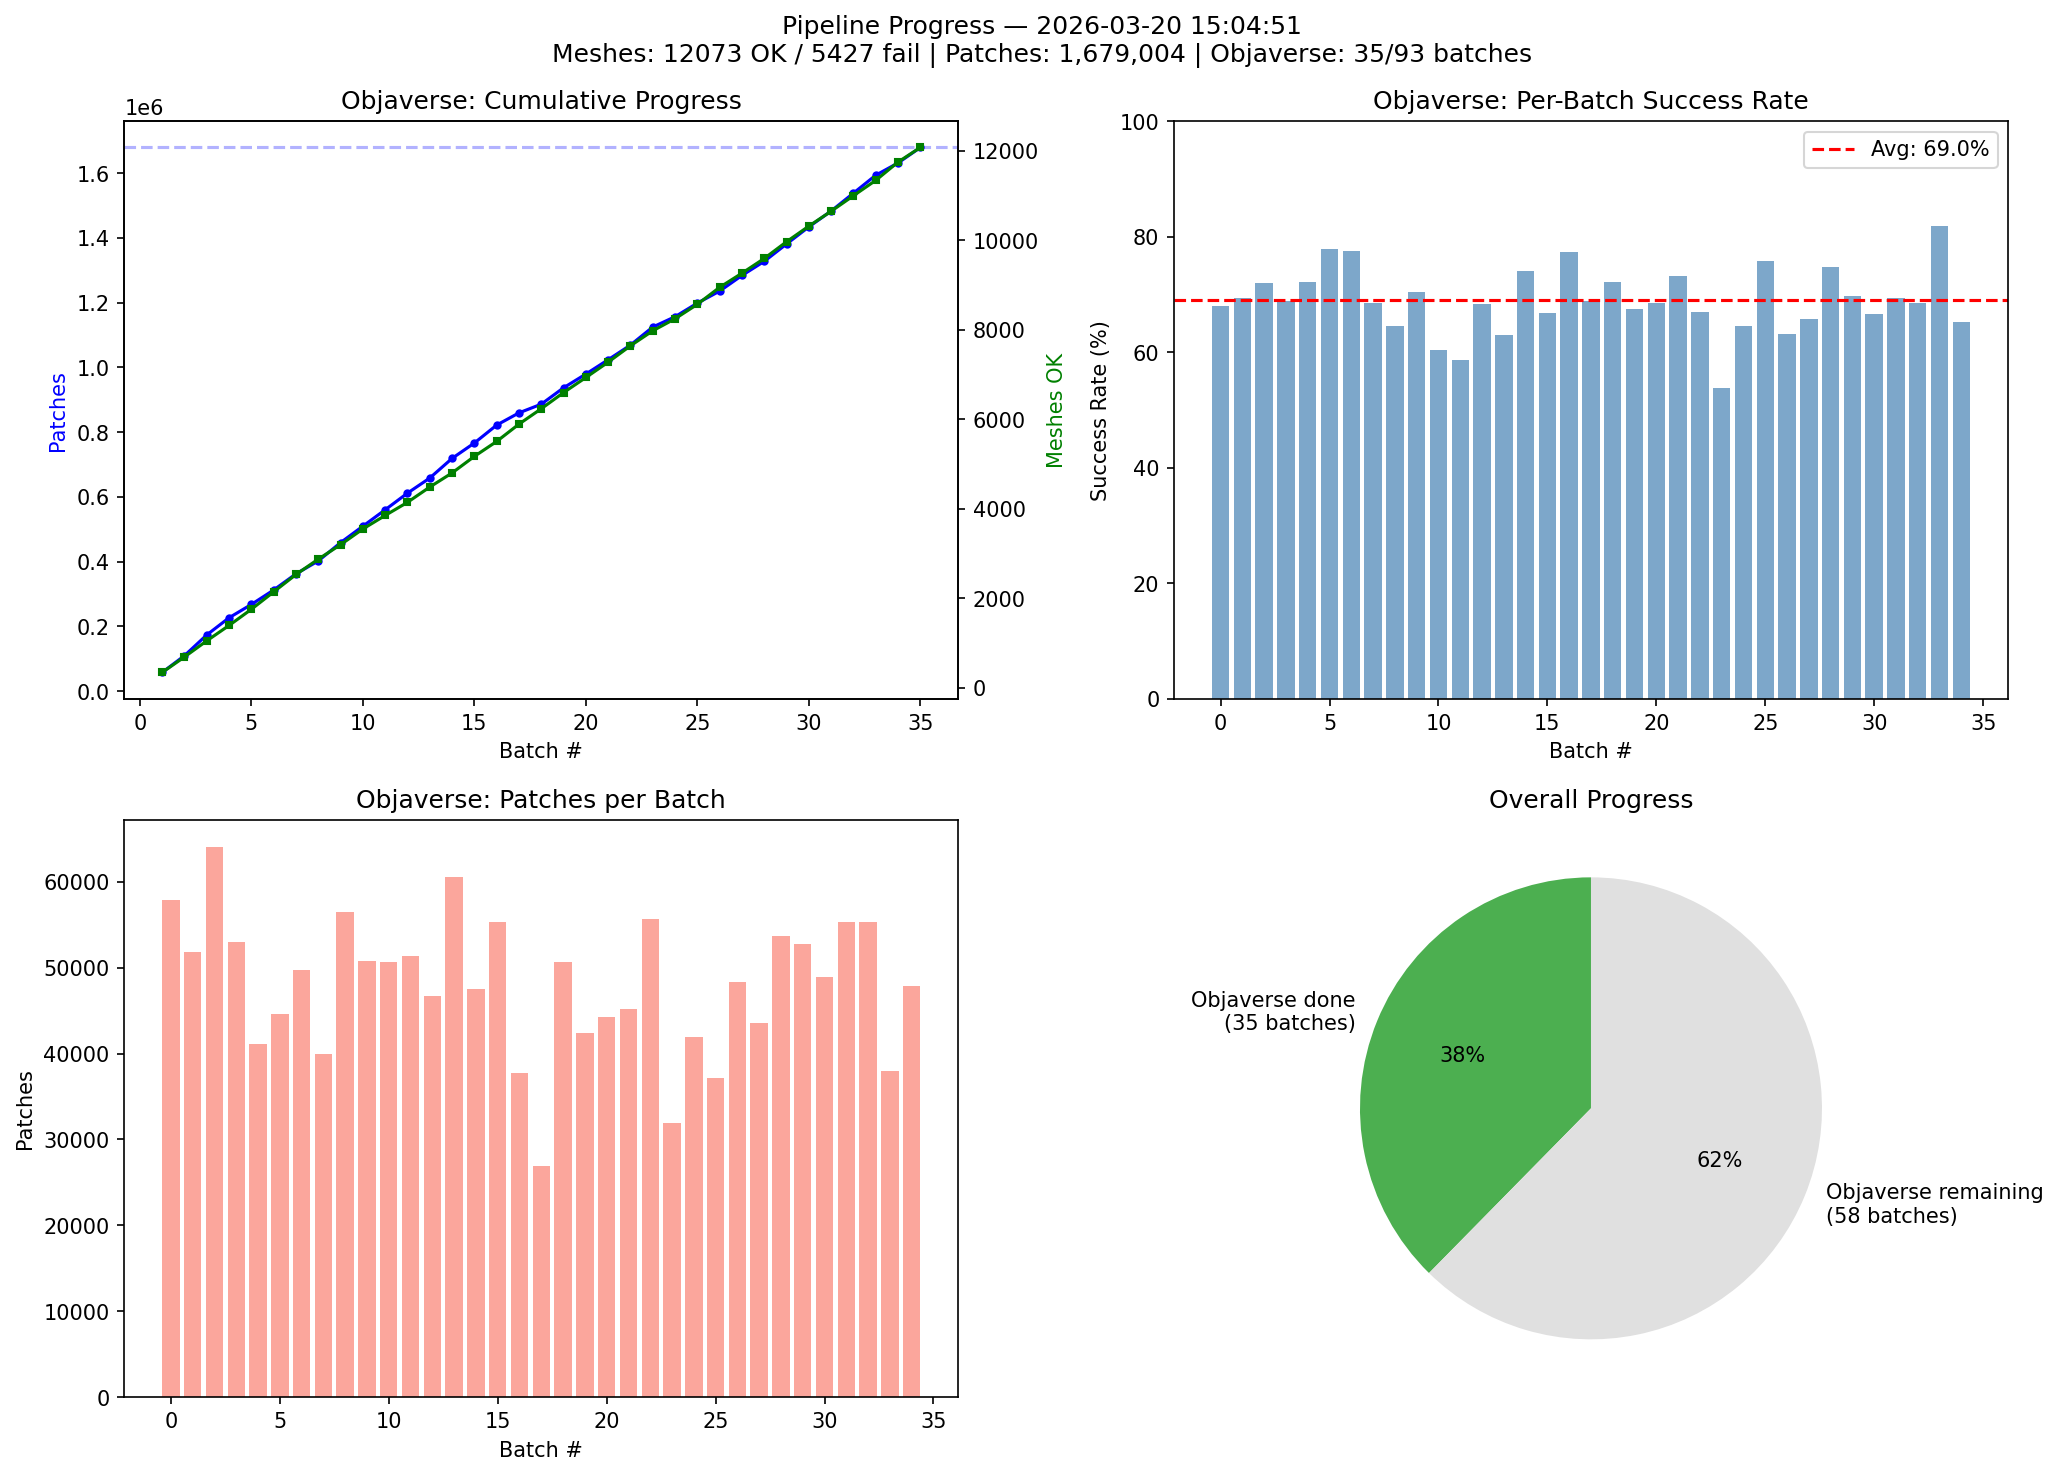
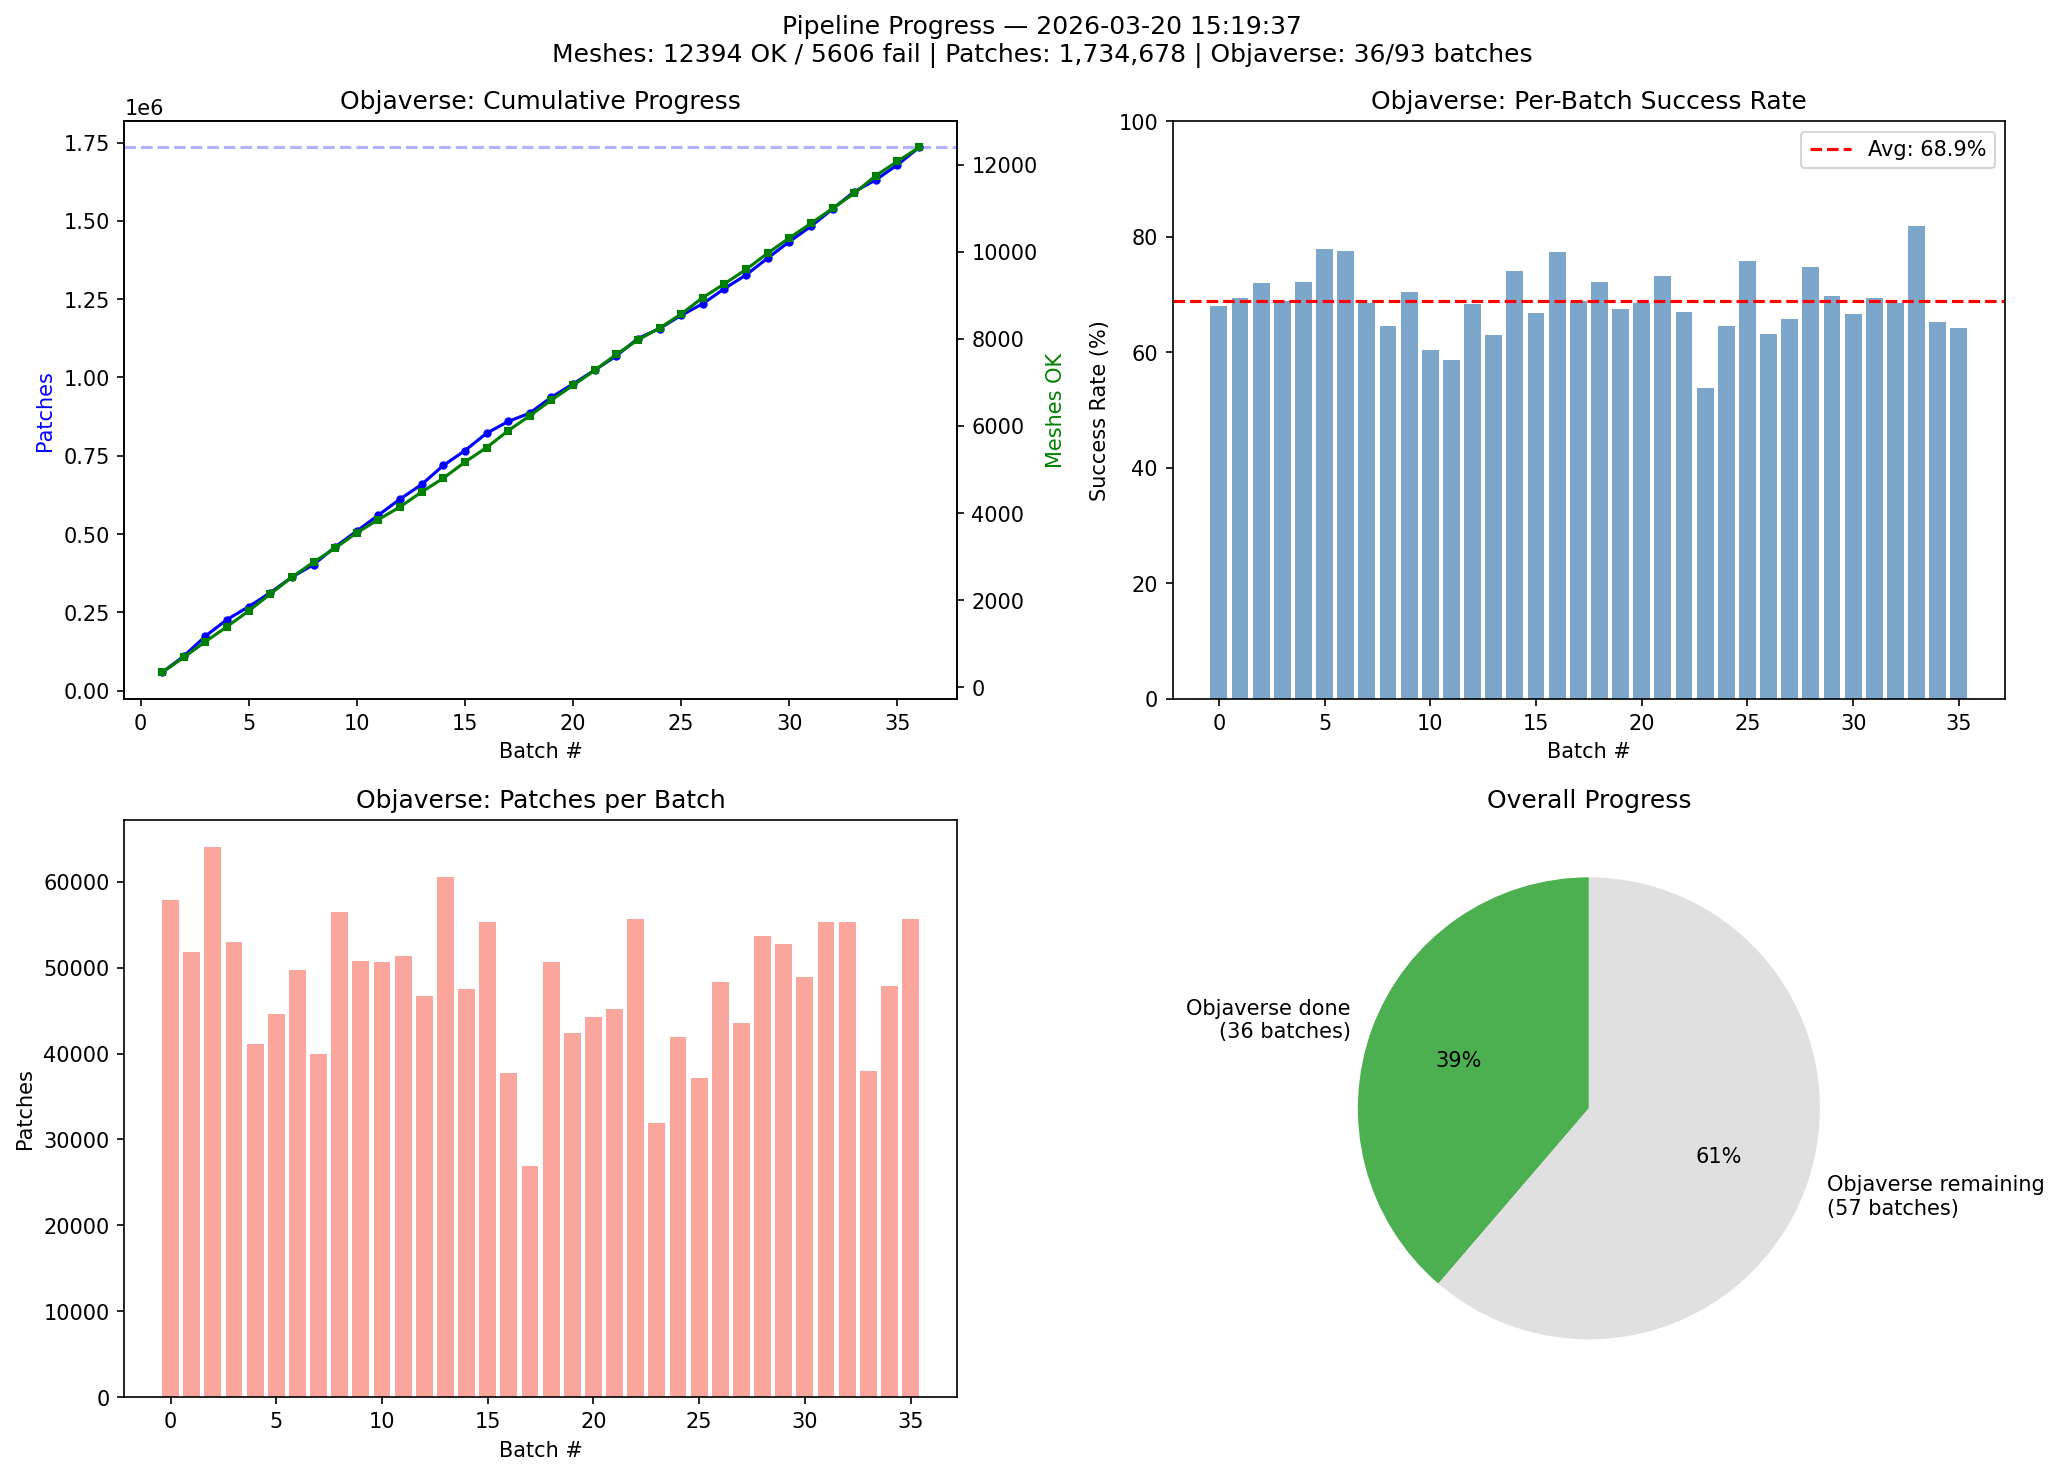
chore: update pipeline monitoring (batch_036 completed)
- Objaverse: 36/93 batches, 12394 OK / 5606 fail
- Patches: 1,734,678

diff --git a/results/dataset-pipeline/REPORT.md b/results/dataset-pipeline/REPORT.md
@@ -1,17 +1,17 @@
 # Dataset Pipeline Progress Report
 
-**Generated:** 2026-03-20 15:04:51
+**Generated:** 2026-03-20 15:19:37
 
 ## Overall
-- Total meshes processed: 12073 OK / 5427 fail
-- Total patches: 1,679,004
+- Total meshes processed: 12394 OK / 5606 fail
+- Total patches: 1,734,678
 
 ## Objaverse-LVIS (Phase 1)
-- Batches: 35 / 93 completed
-- Meshes: 12073 OK / 5427 fail
-- Success rate: 69.0%
-- Patches: 1,679,004
-- Avg patches/mesh: 139.1
+- Batches: 36 / 93 completed
+- Meshes: 12394 OK / 5606 fail
+- Success rate: 68.9%
+- Patches: 1,734,678
+- Avg patches/mesh: 140.0
 
 ## ShapeNet (Phase 2)
 - Batches: 0 completed
